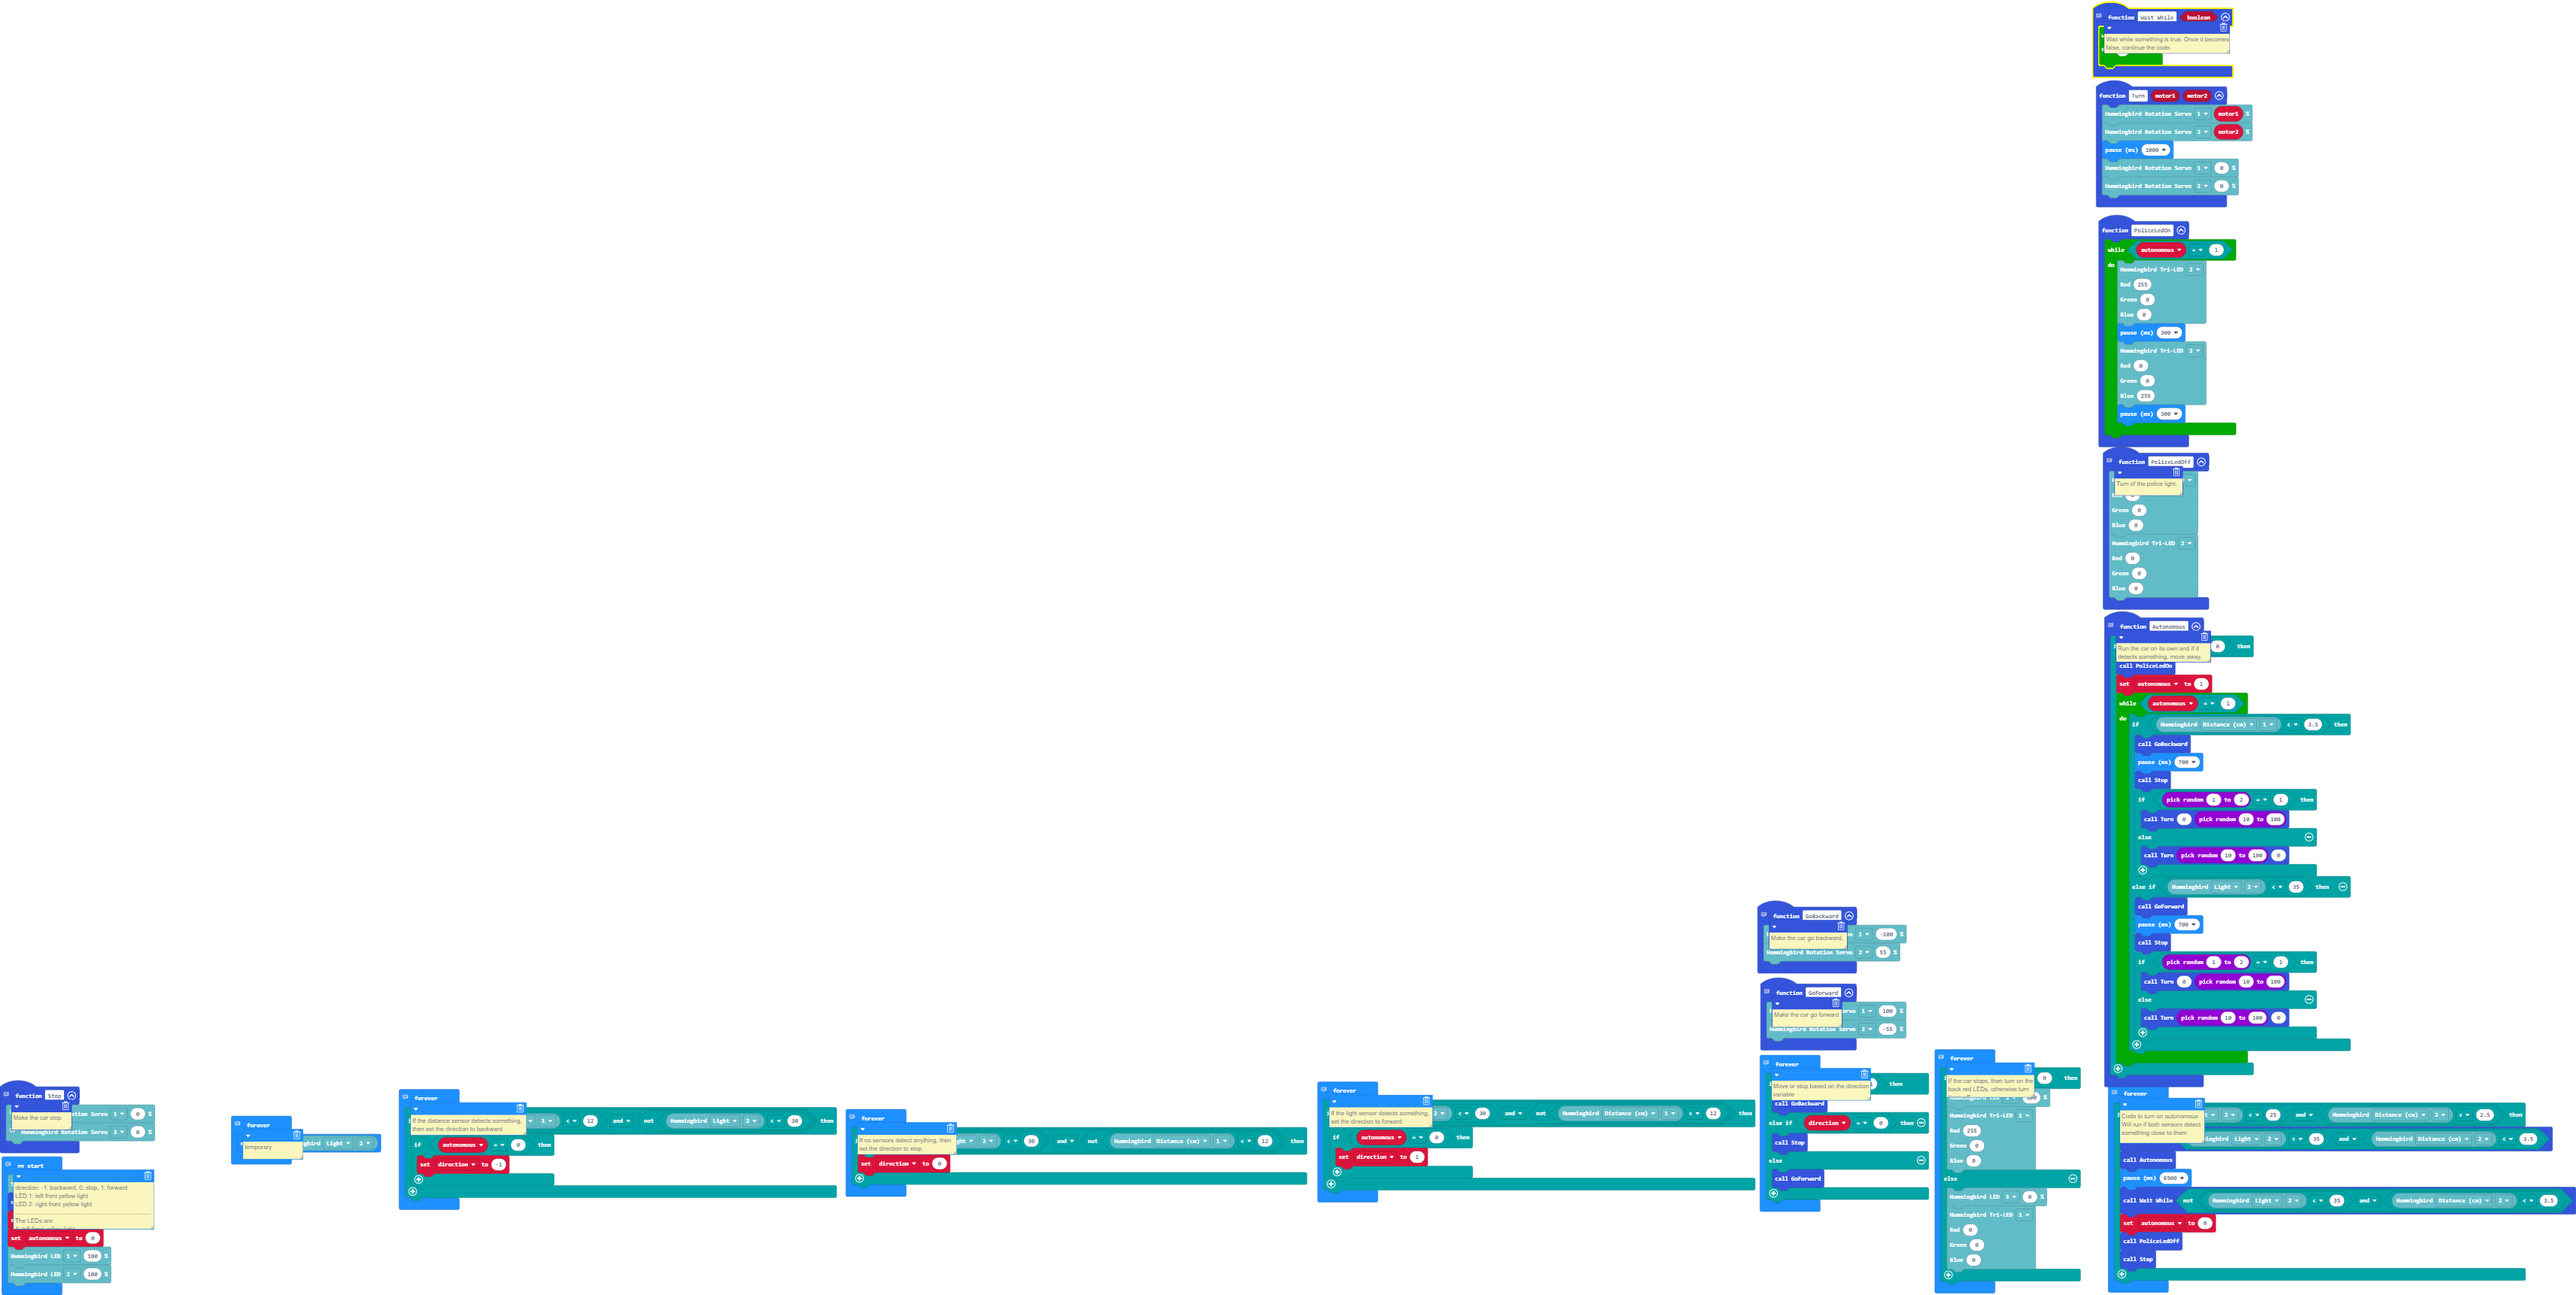
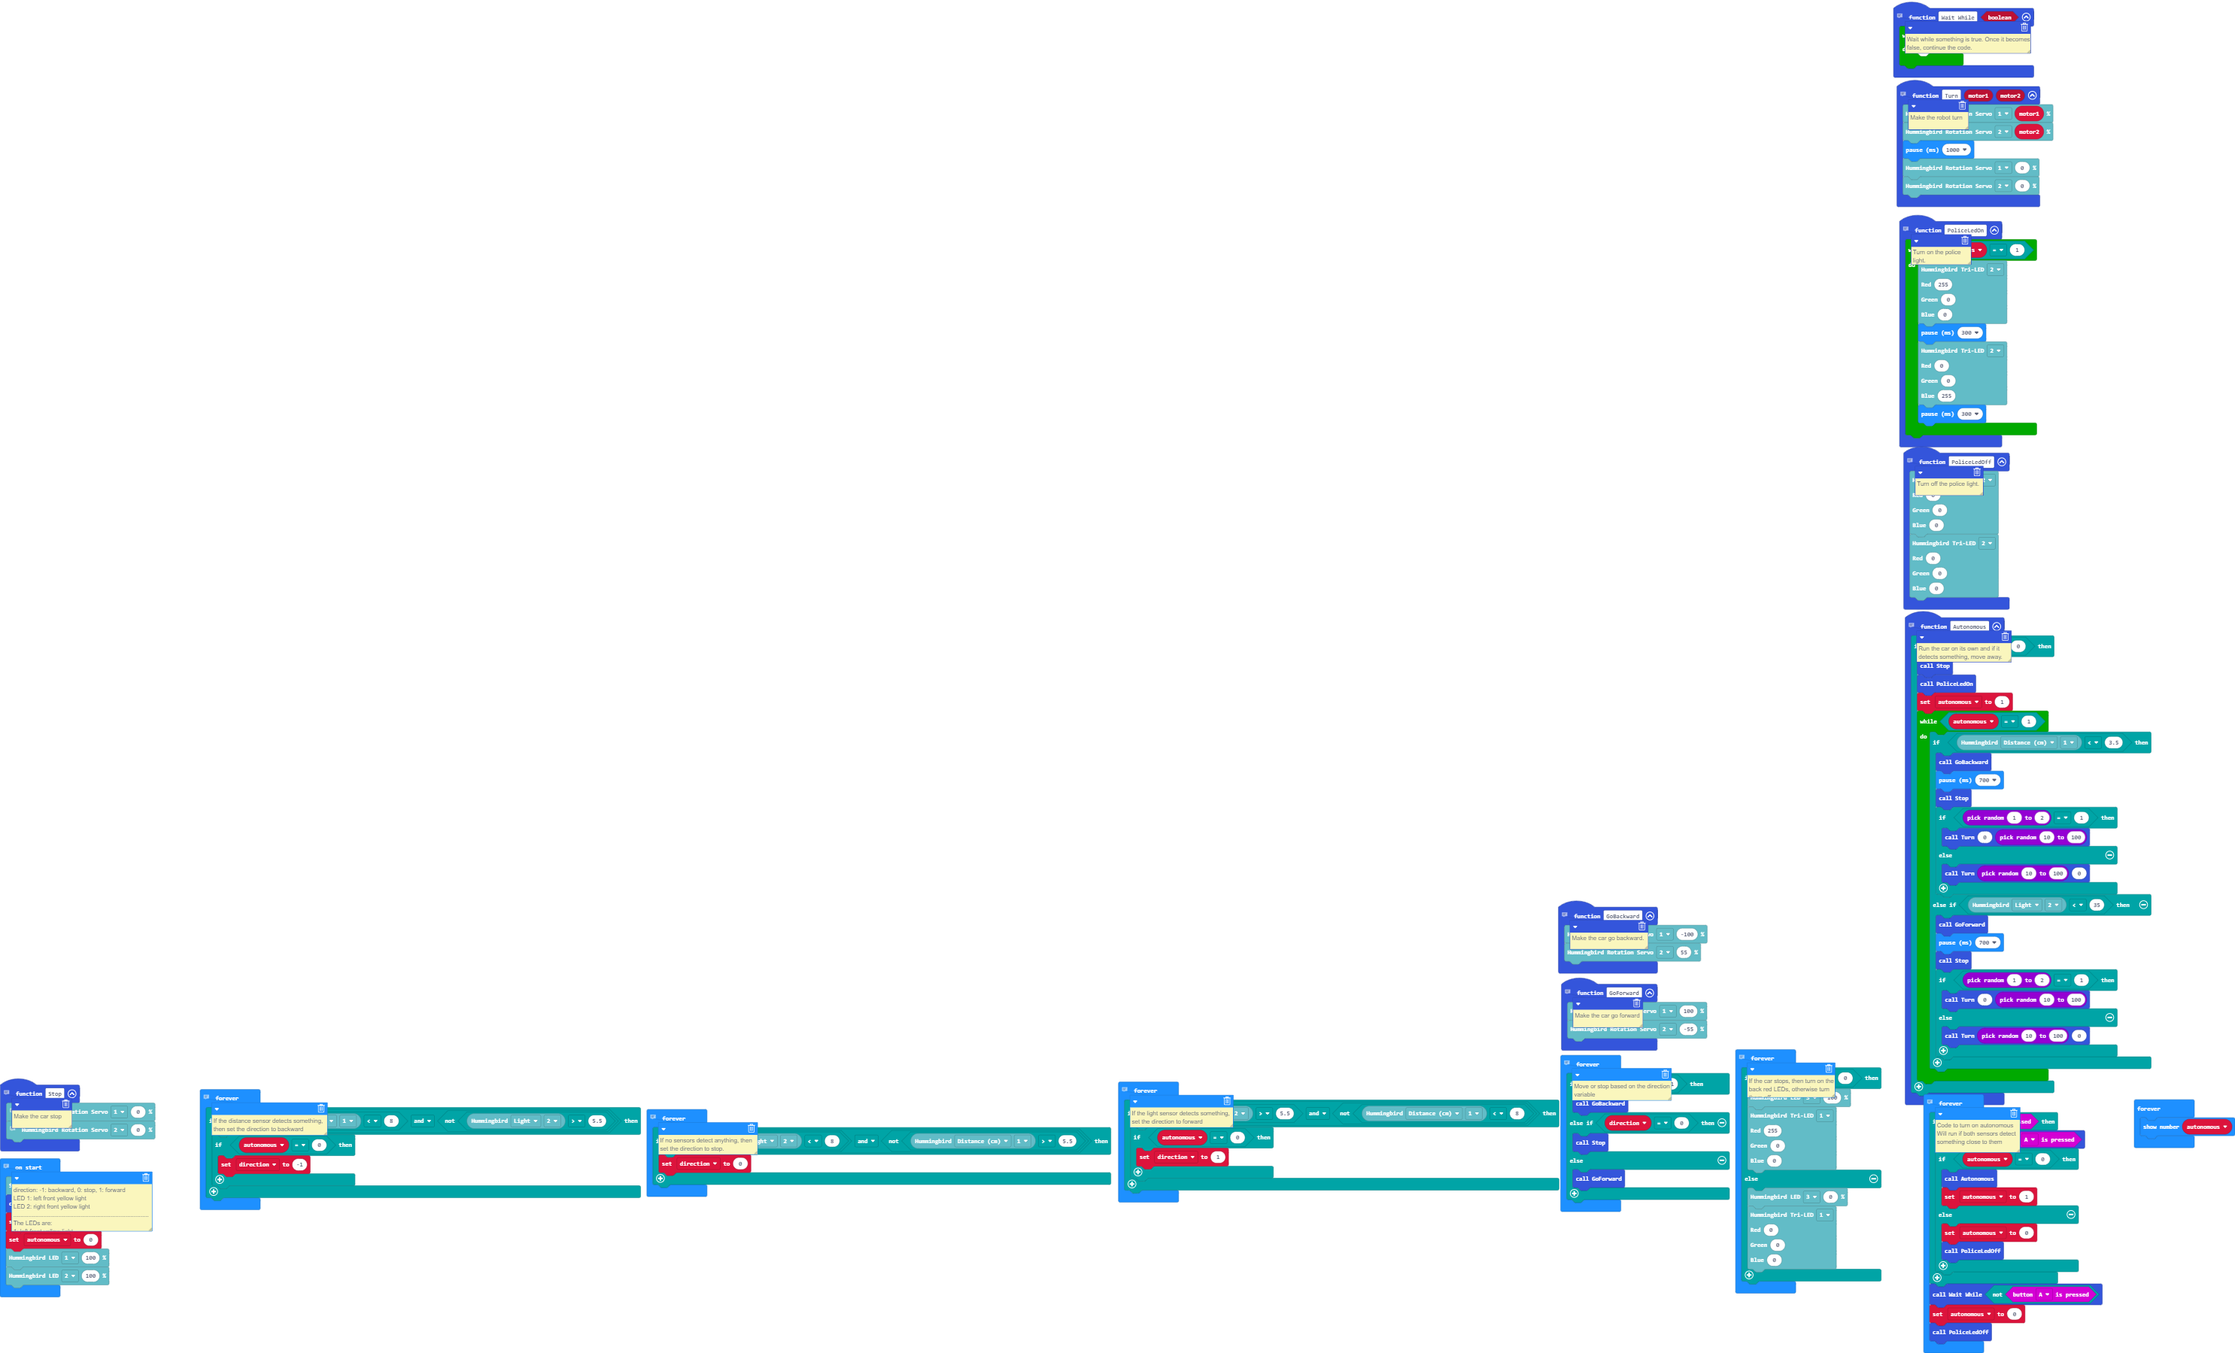
sensors and autonomous a button

Changed region(s): [[0.0, 0.0, 1.0, 1.0]]

diff --git a/main.ts b/main.ts
@@ -1,4 +1,4 @@
-// Turn of the police light.
+// Turn off the police light.
 function PoliceLedOff () {
     hummingbird.setTriLED(
     TwoPort.Two,
@@ -19,6 +19,7 @@ function Wait_While (boolean: boolean) {
     	
     }
 }
+// Turn on the police light.
 function PoliceLedOn () {
     while (autonomous == 1) {
         hummingbird.setTriLED(
@@ -42,6 +43,7 @@ function GoForward () {
     hummingbird.setRotationServo(FourPort.One, 100)
     hummingbird.setRotationServo(FourPort.Two, -55)
 }
+// Make the robot turn
 function Turn (motor1: number, motor2: number) {
     hummingbird.setRotationServo(FourPort.One, motor1)
     hummingbird.setRotationServo(FourPort.Two, motor2)
@@ -52,6 +54,7 @@ function Turn (motor1: number, motor2: number) {
 // Run the car on its own and if it detects something, move away.
 function Autonomous () {
     if (autonomous == 0) {
+        Stop()
         PoliceLedOn()
         autonomous = 1
         while (autonomous == 1) {
@@ -112,15 +115,11 @@ hummingbird.setLED(ThreePort.One, 100)
 hummingbird.setLED(ThreePort.Two, 100)
 // If the distance sensor detects something, then set the direction to backward
 basic.forever(function () {
-    if (hummingbird.getSensor(SensorType.Distance, ThreePort.One) < 12 && !(hummingbird.getSensor(SensorType.Light, ThreePort.Two) < 30)) {
+    if (hummingbird.getSensor(SensorType.Distance, ThreePort.One) < 8 && !(hummingbird.getSensor(SensorType.Light, ThreePort.Two) > 5.5)) {
         if (autonomous == 0) {
             direction = -1
         }
     }
-})
-// temporary
-basic.forever(function () {
-    basic.showNumber(hummingbird.getSensor(SensorType.Light, ThreePort.Two))
 })
 // Move or stop based on the direction variable
 basic.forever(function () {
@@ -154,7 +153,7 @@ basic.forever(function () {
 })
 // If the light sensor detects something, set the direction to forward
 basic.forever(function () {
-    if (hummingbird.getSensor(SensorType.Light, ThreePort.Two) < 30 && !(hummingbird.getSensor(SensorType.Distance, ThreePort.One) < 12)) {
+    if (hummingbird.getSensor(SensorType.Light, ThreePort.Two) > 5.5 && !(hummingbird.getSensor(SensorType.Distance, ThreePort.One) < 8)) {
         if (autonomous == 0) {
             direction = 1
         }
@@ -162,20 +161,27 @@ basic.forever(function () {
 })
 // If no sensors detect anything, then set the direction to stop.
 basic.forever(function () {
-    if (!(hummingbird.getSensor(SensorType.Light, ThreePort.Two) < 30) && !(hummingbird.getSensor(SensorType.Distance, ThreePort.One) < 12)) {
+    if (!(hummingbird.getSensor(SensorType.Light, ThreePort.Two) < 8) && !(hummingbird.getSensor(SensorType.Distance, ThreePort.One) > 5.5)) {
         direction = 0
     }
 })
 // Code to turn on autonomous
 // Will run if both sensors detect something close to them
 basic.forever(function () {
-    if (hummingbird.getSensor(SensorType.Light, ThreePort.Two) < 25 && hummingbird.getSensor(SensorType.Distance, ThreePort.Two) < 2.5) {
-        Wait_While(hummingbird.getSensor(SensorType.Light, ThreePort.Two) < 35 && hummingbird.getSensor(SensorType.Distance, ThreePort.Two) < 3.5)
-        Autonomous()
-        basic.pause(6500)
-        Wait_While(!(hummingbird.getSensor(SensorType.Light, ThreePort.Two) < 35 && hummingbird.getSensor(SensorType.Distance, ThreePort.Two) < 3.5))
-        autonomous = 0
-        PoliceLedOff()
-        Stop()
+    if (input.buttonIsPressed(Button.A)) {
+        Wait_While(input.buttonIsPressed(Button.A))
+        if (autonomous == 0) {
+            Autonomous()
+            autonomous = 1
+        } else {
+            autonomous = 0
+            PoliceLedOff()
+        }
     }
+    Wait_While(!(input.buttonIsPressed(Button.A)))
+    autonomous = 0
+    PoliceLedOff()
+})
+basic.forever(function () {
+    basic.showNumber(autonomous)
 })
